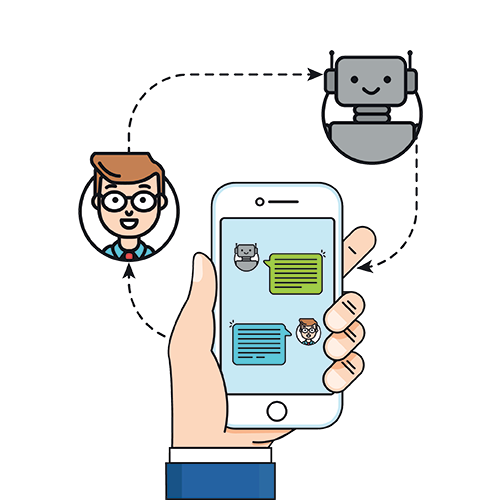
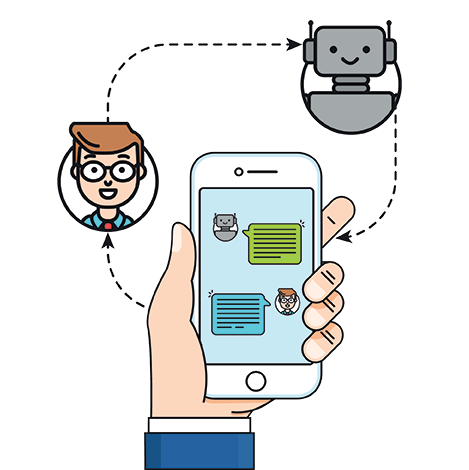
Updated ChatBot homepage image

diff --git a/homepage_content.php b/homepage_content.php
@@ -29,7 +29,7 @@
           </div>
         </div>
         <div class="col-sm-7 col-sm-pull-0 col-md-7 col-md-pull-5 wow fadeInRight animated">
-          <img class="img-responsive" src="chatbot-homepage.png" alt="ChatBot">
+          <img class="img-responsive" src="https://raw.githubusercontent.com/lovelldies/b1hub/cb2dd527bc68854689cf4f79cb8f77a9f22f2ac8/images/chatbot/chatbot-homepage.png" alt="ChatBot">
         </div>
       </div>
     </div>
